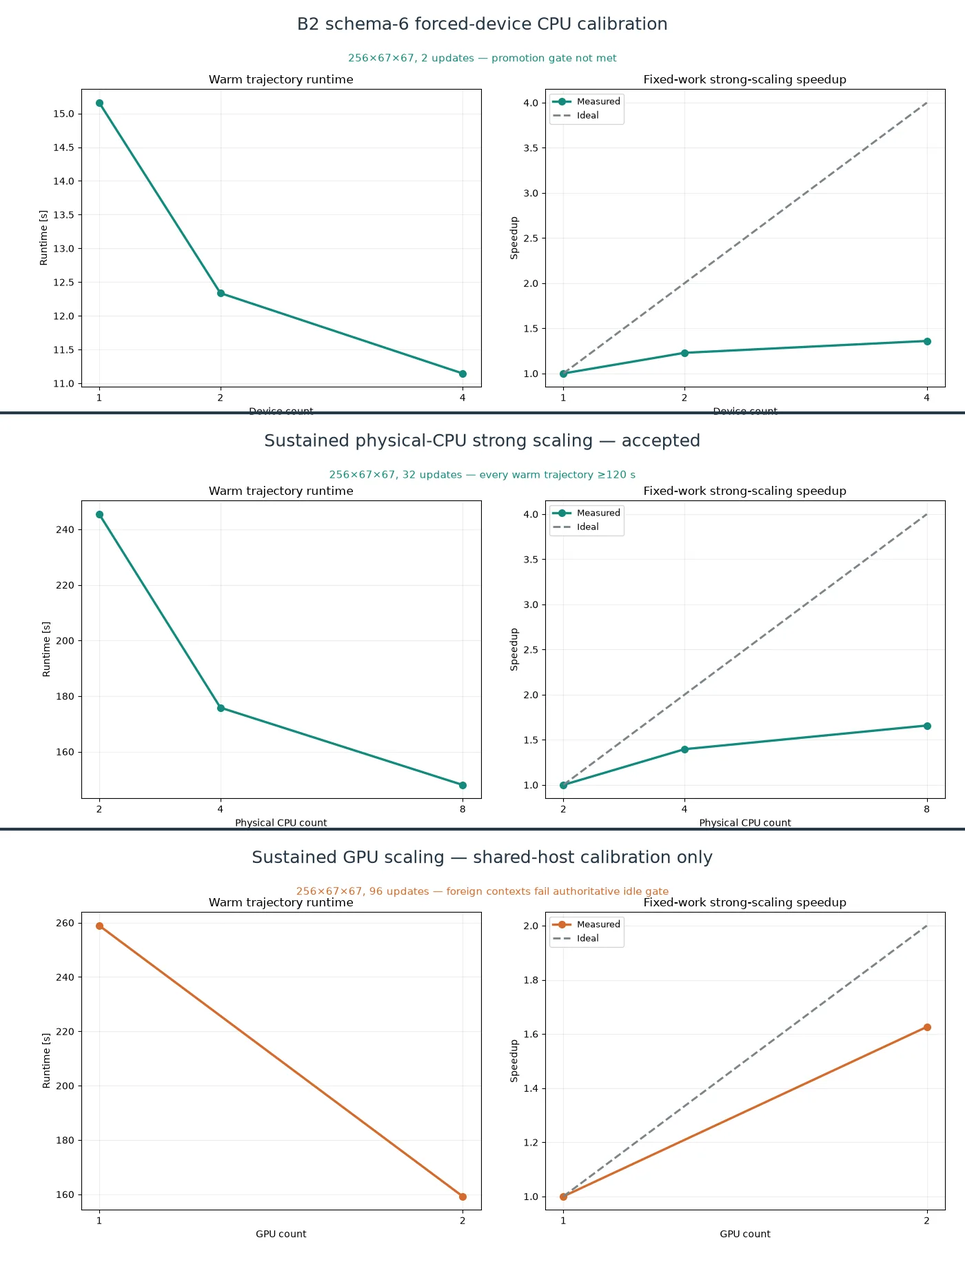
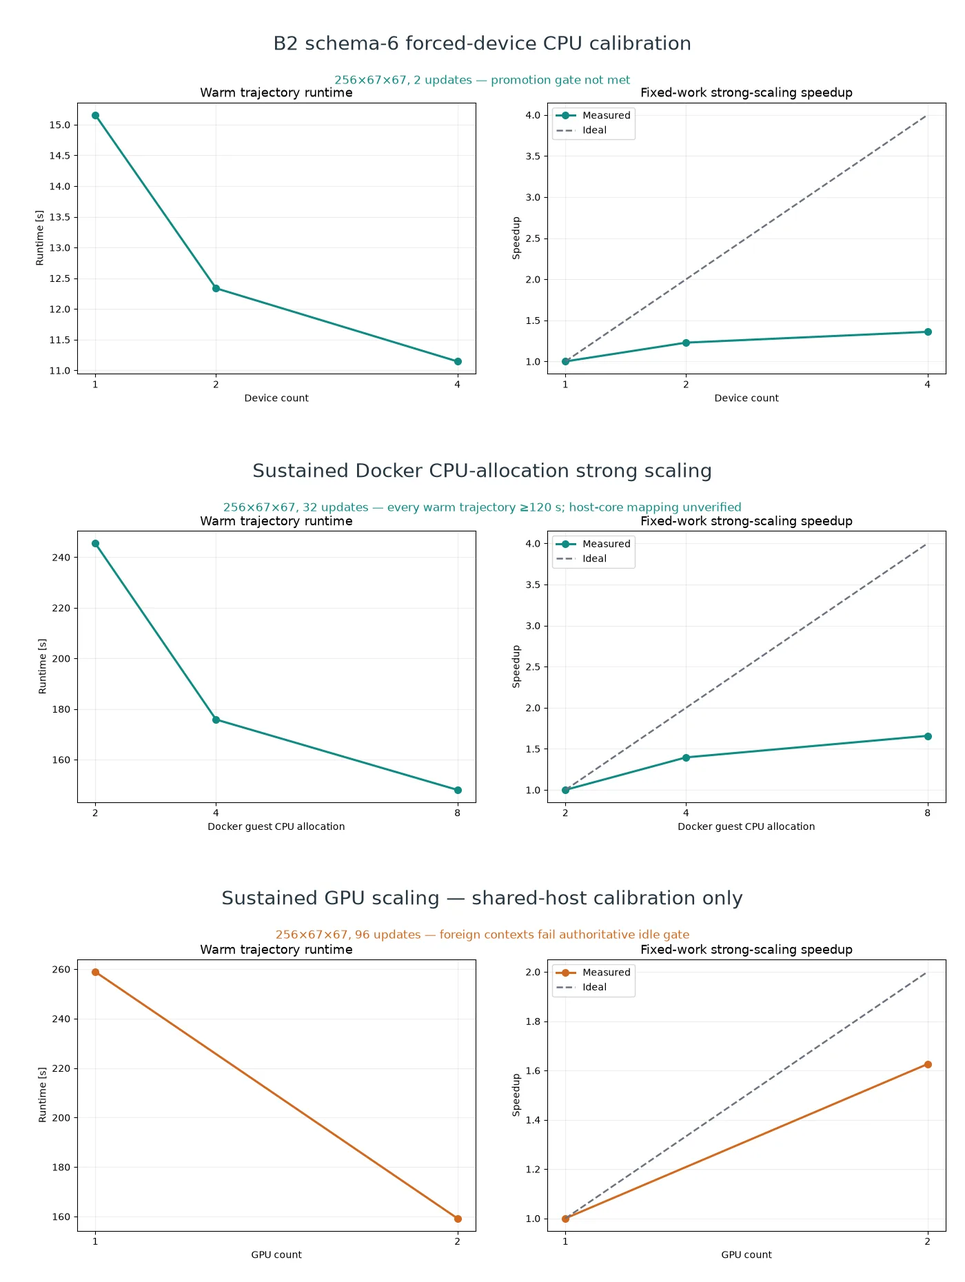
Require sustained scaling evidence

diff --git a/scripts/run_strong_scaling_worker.py b/scripts/run_strong_scaling_worker.py
@@ -44,6 +44,7 @@ _B2_RESTART_FLUX_RTOL = 1.0e-5
 _B2_REPEAT_ATOL = 2.0e-9
 _B2_REPEAT_RTOL = 2.0e-8
 _B2_PROFILE_ITERATION_ATOL = 3
+_B2_SUSTAINED_WARM_SECONDS = 120.0
 _B2_FIELD_NAMES = (
     "u", "v", "w", "p", "phi", "jx", "jy", "jz", "rho_phi_plus", "rho_phi_inlet"
 )
@@ -51,6 +52,19 @@ _B2_FIELD_NAMES = (
 if ROOT not in Path(lmx.__file__).resolve().parents:
     raise RuntimeError(
         f"Scaling worker imported LMX outside its source tree: {lmx.__file__}"
+    )
+
+
+def _sustained_timing_passed(
+    minimum_warm_seconds: float, warm_samples: object
+) -> bool:
+    """Require a predeclared multi-minute workload for scaling evidence."""
+
+    samples = np.asarray(warm_samples, dtype=float)
+    return bool(
+        samples.size
+        and minimum_warm_seconds >= _B2_SUSTAINED_WARM_SECONDS
+        and np.all(samples >= _B2_SUSTAINED_WARM_SECONDS)
     )
 
 
@@ -476,9 +490,12 @@ def _matched_b2_smoke_benchmark(
         and profile_linear_iteration_max_abs <= _B2_PROFILE_ITERATION_ATOL
         and all(np.array_equal(left[:, offset + 1:], right[:, offset + 1:])
             for left, right, offset in profile_histories)))
-    acceptance_role = ("harness-smoke"
-        if direct.u.shape == (8, 7, 7) and executed_steps == 2
-        else "scaling-calibration")
+    if direct.u.shape == (8, 7, 7) and executed_steps == 2:
+        acceptance_role = "harness-smoke"
+    elif minimum_warm_seconds >= _B2_SUSTAINED_WARM_SECONDS:
+        acceptance_role = "sustained-scaling-calibration"
+    else:
+        acceptance_role = "fixed-work-debug"
     try:
         with tempfile.TemporaryDirectory(prefix="lmx-b2-serialized-restart-") as temporary:
             restart_path = Path(temporary) / "checkpoint.npz"
@@ -494,6 +511,7 @@ def _matched_b2_smoke_benchmark(
             )
     except Exception as error:
         warm = np.asarray(timings[1:])
+        sustained = _sustained_timing_passed(minimum_warm_seconds, warm)
         return {
             "benchmark_kind": "matched_b2_smoke",
             "acceptance_role": acceptance_role,
@@ -505,6 +523,9 @@ def _matched_b2_smoke_benchmark(
             "repeats": repeats, "cold_seconds": timings[0],
             "warm_samples_seconds": warm.tolist(),
             "warm_seconds": float(np.median(warm)), "validation_passed": False,
+            "sustained_minimum_warm_seconds": _B2_SUSTAINED_WARM_SECONDS,
+            "sustained_duration_passed": sustained,
+            "sustained_timing_eligible": False,
             "failure": {"phase": "restart", "type": type(error).__name__,
                 "message": str(error)},
         }
@@ -553,6 +574,7 @@ def _matched_b2_smoke_benchmark(
         and all(sample >= minimum_warm_seconds for sample in timings[1:])
     )
     warm = np.asarray(timings[1:])
+    sustained = _sustained_timing_passed(minimum_warm_seconds, warm)
     velocity_l2 = float(np.sqrt(sum(np.linalg.norm(np.asarray(getattr(direct, name))) ** 2
         for name in ("u", "v", "w"))))
     current_l2 = float(np.sqrt(sum(np.linalg.norm(np.asarray(getattr(direct, name))) ** 2
@@ -582,9 +604,11 @@ def _matched_b2_smoke_benchmark(
             executed_steps * direct.u.size / np.median(warm)
         ),
         "minimum_warm_seconds": minimum_warm_seconds,
-        "sustained_duration_passed": bool(
-            all(sample >= minimum_warm_seconds for sample in warm)
-        ),
+        "requested_duration_passed": bool(
+            all(sample >= minimum_warm_seconds for sample in warm)),
+        "sustained_minimum_warm_seconds": _B2_SUSTAINED_WARM_SECONDS,
+        "sustained_duration_passed": sustained,
+        "sustained_timing_eligible": bool(validation_passed and sustained),
         "velocity_l2": velocity_l2, "potential_l2": float(np.linalg.norm(np.asarray(direct.phi))),
         "current_l2": current_l2,
         "memory_bytes_estimate": _bundle_memory_bytes(direct),

diff --git a/tests/test_scaling.py b/tests/test_scaling.py
@@ -337,6 +337,28 @@ def test_matched_scaling_worker_rejects_step_contract_mismatch(tmp_path: Path):
         )
 
 
+def test_sustained_scaling_requires_predeclared_multiminute_samples():
+    classify = run_strong_scaling_worker._sustained_timing_passed
+    assert not classify(0.0, [121.0, 122.0, 123.0])
+    assert not classify(120.0, [120.0, 119.999, 121.0])
+    assert classify(120.0, [120.0, 121.0, 122.0])
+
+    cpu = json.loads(Path(
+        "benchmarks/results/b2-schema6-cpu-scaling-20260716.json").read_text())
+    cpu_sustained = cpu["physical_core_sustained_confirmation"]
+    gpu = json.loads(Path(
+        "benchmarks/results/b2-gpu-scaling-calibration-20260715.json").read_text())
+    gpu_sustained = gpu["sustained_shared_host_calibration"]
+    for record in (cpu_sustained, gpu_sustained):
+        threshold = record.get("promotion_thresholds", record.get("problem"))
+        assert threshold["minimum_warm_seconds"] >= 120.0
+        assert all(
+            sample >= 120.0 for run in record["runs"].values()
+            for sample in run["warm_samples_seconds"])
+    assert not gpu_sustained["gates"]["authoritative_idle_host"]
+    assert not gpu_sustained["gates"]["timing_claim"]
+
+
 def test_write_scaling_report_writes_json(tmp_path: Path):
     record = benchmark_sharded_extruded_operator(
         nx=16, ny=8, nz=8, iterations=2, repeats=1, num_devices=1
@@ -382,16 +404,20 @@ def test_strong_scaling_summary_table_computes_solver_diagnostics(tmp_path: Path
         "profile_path": None,
     }
 
-    summary = summarize_strong_scaling_records([baseline, two_device])
+    baseline_record = {**baseline.__dict__, "sustained_timing_eligible": True}
+    two_device["sustained_timing_eligible"] = True
+    summary = summarize_strong_scaling_records([baseline_record, two_device])
     table = write_strong_scaling_summary_table(
-        [baseline, two_device], tmp_path / "strong_scaling_table.csv"
+        [baseline_record, two_device], tmp_path / "strong_scaling_table.csv"
     )
 
     assert summary["validation_status"] == "solver_faithful_records_present"
     assert summary["solver_faithful_record_count"] == 2
     assert summary["profiled_record_count"] == 1
     assert summary["physics_equivalent_record_count"] == 2
+    assert summary["sustained_timing_record_count"] == 2
     assert summary["best_speedup"] == pytest.approx(2.0)
+    assert summary["best_sustained_speedup"] == pytest.approx(2.0)
     rows = summary["rows"]
     assert rows[0]["speedup"] == pytest.approx(1.0)
     assert rows[1]["speedup"] == pytest.approx(2.0)

diff --git a/lmx/scaling.py b/lmx/scaling.py
@@ -98,6 +98,7 @@ _SCALING_TABLE_COLUMNS = (
     "signature_relative_tolerance",
     "physics_equivalent",
     "solver_faithful",
+    "sustained_timing_eligible",
 )
 
 _BUNDLE_FIELD_NAMES = (
@@ -291,13 +292,21 @@ def summarize_strong_scaling_records(
                     "signature_relative_tolerance": signature_rtol,
                     "physics_equivalent": physics_equivalent,
                     "solver_faithful": operator_path == "solve_extruded_inductionless",
+                    "sustained_timing_eligible": bool(
+                        record.get("sustained_timing_eligible", False)
+                    ),
                 }
             )
 
     solver_faithful_count = sum(1 for row in rows if row["solver_faithful"])
     profiled_count = sum(1 for row in rows if row["profile_path"])
     physics_equivalent_count = sum(1 for row in rows if row["physics_equivalent"])
+    sustained_count = sum(1 for row in rows if row["sustained_timing_eligible"])
     best_speedup = max((float(row["speedup"]) for row in rows), default=0.0)
+    best_sustained_speedup = max(
+        (float(row["speedup"]) for row in rows if row["sustained_timing_eligible"]),
+        default=0.0,
+    )
     best_parallel_efficiency = max(
         (float(row["parallel_efficiency"]) for row in rows), default=0.0
     )
@@ -306,7 +315,9 @@ def summarize_strong_scaling_records(
         "solver_faithful_record_count": solver_faithful_count,
         "profiled_record_count": profiled_count,
         "physics_equivalent_record_count": physics_equivalent_count,
+        "sustained_timing_record_count": sustained_count,
         "best_speedup": best_speedup,
+        "best_sustained_speedup": best_sustained_speedup,
         "best_parallel_efficiency": best_parallel_efficiency,
         "validation_status": "solver_faithful_records_present"
         if solver_faithful_count

diff --git a/examples/strong_scaling_demo.py b/examples/strong_scaling_demo.py
@@ -480,9 +480,12 @@ def run_strong_scaling_demo(
             )
         )
 
-    plots = write_strong_scaling_plots(
-        records, out_dir, case_title="LMX strong scaling"
+    sustained = bool(records) and all(
+        record.get("sustained_timing_eligible", False) for record in records
     )
+    plots = write_strong_scaling_plots(records, out_dir, case_title=(
+        "LMX sustained fixed-work scaling" if sustained
+        else "LMX scaling smoke / calibration"))
     table_path = write_strong_scaling_summary_table(
         records, out_dir / "strong_scaling_table.csv"
     )

diff --git a/docs/performance.md b/docs/performance.md
@@ -4,9 +4,9 @@ LMX runs through JAX on CPUs and GPUs. Performance claims are accepted only for
 the real solver path with identical numerical results; visibility of multiple
 devices alone is not evidence of parallel execution.
 
-![Current B2 schema-6 calibration and sustained physical-CPU scaling](_static/strong_scaling.webp)
+![Current B2 schema-6 calibration and sustained CPU/GPU scaling](_static/strong_scaling.webp)
 
-This composite is generated from the accepted schema-6 CPU record. The upper
+This composite is generated from the compact schema-6 CPU and GPU records. The upper
 panel is forced-device calibration; the middle panel is accepted sustained
 fixed-work scaling on affinity-controlled 2/4/8 CPUs; the lower panel is a
 multi-minute one/two-GPU shared-host calibration. GPU correctness is green, but
@@ -19,12 +19,12 @@ the timing claim remains open because foreign contexts fail the idle gate.
 | portable test gate | Apple M4, six workers | 856 pass, 8 skip, 95.33% combined line/branch coverage, 181.0 s | below five-minute target and one third of the ten-minute budget |
 | B2 CPU smoke | Apple M4, `8 x 7 x 7`, 1/2/4 forced CPU devices | current-source pressure observable agrees within `5.93e-15`; closure and exact restart pass | production sharding correctness; too small for scaling claims |
 | B2 schema-6 CPU calibration | Apple M4, `256 x 67 x 67`, 1/2/4 forced CPU devices | 15.159/12.337/11.146 s; 1.229x/1.360x speedup; exact restart and device equivalence pass | accepted correctness/calibration; four-device promotion gate not met |
-| B2 physical-core confirmation | ARM64 Docker on Apple M4, `256 x 67 x 67`, 2/4/8 affinity-controlled CPUs for 1/2/4 devices | 22.894/15.953/14.252 s; 1.435x/1.606x; 95% lower bounds 1.364x/1.548x; efficiency 71.8%/40.2% | repeated two-update calibration; not sustained or steady-production scaling |
-| B2 sustained CPU scaling | same grid/masks, 32 updates, three warm trajectories per topology | 245.465/175.837/148.026 s; 1.396x/1.658x; 95% lower bounds 1.378x/1.655x; efficiency 69.8%/41.5%; CV below 0.71% | accepted fixed-work physical-CPU strong scaling; not steady-state evidence |
+| B2 CPU-allocation confirmation | ARM64 Docker on Apple M4, `256 x 67 x 67`, 2/4/8 affinity-controlled guest CPUs for 1/2/4 devices | 22.894/15.953/14.252 s; 1.435x/1.606x; 95% lower bounds 1.364x/1.548x; efficiency 71.8%/40.2% | repeated two-update calibration; host P/E-core mapping unverified |
+| B2 sustained CPU scaling | same grid/masks, 32 updates, three warm trajectories per topology | 245.465/175.837/148.026 s; 1.396x/1.658x; 95% lower bounds 1.378x/1.655x; efficiency 69.8%/41.5%; CV below 0.71% | fixed-work Docker CPU-allocation strong scaling; not host-core or steady-state evidence |
 | B2 sustained GPU calibration | 1/2 RTX A4000, same grid, 96 updates, three warm trajectories per topology | 258.913/159.234 s; 1.626x; 95% interval 1.626x–1.636x; efficiency 81.3%; CV below 0.29% | numerical/duration gates pass; persistent foreign contexts block an authoritative timing claim |
 | B2 pseudo-time gate | Apple M4, corrected warm `7 x 7 x 7`, canonical `Ha=2900`, `N=540` equations | 64x/32x/16x map-rate spread 0.0768%; raw updates halve; exact restart | 64x refrozen; versioned stopping threshold open |
 | B2 physical-residual probe | Apple M4, `7 x 7 x 7` | residual 0.03870 at step 90; omitted reconstruction force is 0.0880 at step 4 | diagnostic has a plausible coarse split floor; never a stopping gate |
-| physical-core restart audit | existing `101 x 77 x 77` coarse checkpoints | geometry/shape load, but sampled files normalize to `legacy_nonexact` with no source fingerprint or schema-6 Anderson/compact-flux state | unsuitable for exact or promoted current-source scaling evidence |
+| CPU-allocation restart audit | existing `101 x 77 x 77` coarse checkpoints | geometry/shape load, but sampled files normalize to `legacy_nonexact` with no source fingerprint or schema-6 Anderson/compact-flux state | unsuitable for exact or promoted current-source scaling evidence |
 | B2 projection audit/fix | Apple M4, warm same-state `7 x 7 x 7` | pre-fix raw cell-update floor `3.69e-3`; corrected predictor-preserving projection removes axial floor | pre-fix trajectories invalid; focused physics/autodiff/restart gates pass |
 | B2 stopping study | Apple M4, schema 5, restart segments to step 96 | `0.05` converges at 30 but fails all QoI limits; `0.005` reaches only `0.01502` | fail closed; accelerate before tighter-reference calibration |
 | B2 relaxation probe | Apple M4, shared step-29 checkpoint, six updates | factors 5/6/8 gain at most 9.33% over factor 4 | below 15% gate; retain factor 2 |
@@ -175,7 +175,7 @@ shards agree within `5.2e-14`, while warm time regresses from 0.530 s to
 timings remain rejected. A subsequent current-source `128 x 67 x 67` matched
 schema-6 pilot found that one CPU per JAX device starves the CPU collective
 runtime: two devices on two CPUs hit the 40-second all-reduce rendezvous abort.
-The preflight therefore fixed two physical CPUs per device and reran nested
+The preflight therefore fixed two guest CPUs per device and reran nested
 2/4/8-CPU masks. Warm medians fall from 7.351 to 5.546/4.574 seconds, giving
 1.325x/1.607x speedups and 66.3%/40.2% efficiency. All affinity, placement,
 restart, repeat, conservation, linear, Anderson, and cross-topology gates pass.
@@ -188,7 +188,9 @@ The promoted 32-update workload measures 245.465, 175.837, and 148.026 s on
 their 95% lower bounds are 1.378x/1.655x, and efficiencies are 69.8%/41.5%.
 CVs remain below 0.71%; midpoint restart is exact and all schema-6, physics,
 placement, and cross-topology gates pass. This accepts sustained fixed-work CPU
-strong scaling, not steady convergence or B2 solution acceptance.
+allocation scaling, not exact M4 host-core scaling, steady convergence, or B2
+solution acceptance. Linux affinity is verified inside the Docker VM; Docker
+Desktop does not expose how those vCPUs map onto the heterogeneous host cores.
 
 The medium B2 tight solve converged across two restart-safe segments and ended
 at residual `2.500e-5`, divergence `1.829e-6`, and charge residual `1.149e-4`.
@@ -321,18 +323,23 @@ For controlled workers and machine-readable records:
 python scripts/run_strong_scaling_worker.py --help
 ```
 
-The matched-B2 worker keeps two updates as its fast debug/CI default. Sustained
-scaling inputs use an explicit fixed workload and fail if any warm trajectory is
-too short; direct and midpoint-restart paths must still finish identically:
+The matched-B2 worker keeps two updates as its fast debug/CI default. Such runs
+can verify numerics but are never scaling evidence. A sustained record must
+predeclare a 120-second minimum and every warm trajectory must meet it; direct
+and midpoint-restart paths must still finish identically. The accepted workload
+uses 32 CPU updates and 96 GPU updates:
 
 ```bash
 python examples/strong_scaling_demo.py --benchmark-kind matched_b2_smoke \
-  --iterations 20 --repeats 4 --minimum-warm-seconds 120
+  --cpu-nx 256 --cpu-ny 67 --cpu-nz 67 --cpu-iterations 32 \
+  --gpu-nx 256 --gpu-ny 67 --gpu-nz 67 --gpu-iterations 96 \
+  --repeats 4 --minimum-warm-seconds 120 --worker-timeout 1800
 ```
 
-Run the CPU topologies with controlled physical-core affinity and the GPU
-topologies only on an idle host. This manual performance lane is intentionally
-outside the portable test battery.
+Run CPU topologies with controlled affinity and GPU topologies only on an idle
+host. The command above is a sustained-workload example; the accepted CPU
+record additionally used Docker `cpuset` masks, which verify guest allocations
+but not M4 P/E-core placement. This manual lane stays outside portable tests.
 
 The solver-faithful example requires a validated restart matching each timed
 grid; it fails before launching workers when one is missing:
@@ -363,6 +370,7 @@ pass the same gates.
 A publishable strong-scaling record contains:
 
 - fixed global grid, physics, tolerance, precision, and update count;
+- a predeclared 120-second minimum met by every warm trajectory;
 - backend, device model, device count, JAX version, and source fingerprint;
 - cold time, warm time, throughput, speedup, and parallel efficiency;
 - compilation separated from repeated execution;

diff --git a/plan.md b/plan.md
@@ -34,15 +34,15 @@ optimization but miss the four-device bound. It is a two-update forced-device
 calibration, not a physical-core or production strong-scaling claim. Schema-6
 topology, explicit component placement, and exact serialized replay pass on
 one and two GPUs; shared-host timing is excluded. The affinity-controlled
-physical-CPU path now passes accepted 32-update sustained scaling: every warm
+Docker CPU-allocation path now passes 32-update sustained scaling: every warm
 trajectory lasts 147--246 s, speedup is 1.396x/1.658x on 4/8 versus 2 CPUs,
 and all confidence, efficiency, restart, and physics gates pass. A 96-update
 one/two-A4000 lane also passes 158--259 s duration, numerical, restart, and
 topology gates with 1.626x shared-host speedup, but persistent foreign contexts
 keep authoritative GPU scaling open. The fixed-work harness accepts
 an explicit update count, checkpoints at the deterministic midpoint, replays
-the remaining trajectory, and can require every warm sample to exceed 120 s;
-the two-update default remains the bounded CI/debug gate. This
+the remaining trajectory, and requires every warm sample to exceed 120 s for a
+sustained claim; the two-update default remains the bounded CI/debug gate. This
 single active plan records accepted baselines, active gates, and
 stop/go criteria—not campaign history. Completed campaign details belong in
 checksummed result records and the validation or performance documentation.
@@ -82,6 +82,9 @@ a stop rule, and a go/no-go threshold before launch. Escalate in this order:
 
 A failed bounded probe stops. It does not trigger an open-ended parameter
 search. Reuse a checksummed accepted record whenever it answers the question.
+Short scaling runs are smoke or calibration only. A CPU or GPU strong-scaling
+claim must predeclare a fixed workload for which every warm sample lasts at
+least 120 seconds; compilation, restart I/O, and observers remain untimed.
 
 ### Test only what changed
 
@@ -361,14 +364,14 @@ updates before rising to `1.72e-4` at 384, above the `5e-5` gate. Reject those
 timings and do not plot them as scaling evidence.
 
 A current-source `128 x 67 x 67` matched schema-6 pilot then establishes the
-bounded physical-core path without a blind steady solve. One CPU per JAX device
-is invalid: two devices on two CPUs hit the 40-second all-reduce rendezvous
-abort. The tiny preflight passes with two physical CPUs per device, so the
+bounded CPU-allocation path without a blind steady solve. One guest CPU per JAX
+device is invalid: two devices on two CPUs hit the 40-second all-reduce rendezvous
+abort. The tiny preflight passes with two guest CPUs per device, so the
 measured ladder uses nested 2/4/8-CPU masks for 1/2/4 devices. Warm medians are
 7.351, 5.546, and 4.574 seconds, giving 1.325x/1.607x speedups and
 66.3%/40.2% efficiency; CVs are below 2.2%. Schema-6, affinity, placement,
 restart, repeat, conservation, linear, Anderson, and cross-topology gates all
-pass. Accept this as a two-update physical-core pilot only. It authorizes one
+pass. Accept this as a two-update affinity-controlled pilot only. It authorizes one
 six-repeat `256 x 67 x 67` confirmation with the frozen 1.20x/1.40x
 confidence-bound and 60%/35% efficiency gates, not a steady-production claim.
 
@@ -382,16 +385,16 @@ The generalized fixed-work worker then rejected a 20-update duration pilot at
 1.396x/1.658x speedups, 1.378x/1.655x 95% lower bounds, and 69.8%/41.5%
 efficiency. CVs are below 0.71%; midpoint replay is exact and every placement,
 linear, conservation, Anderson, and cross-topology gate passes. Accept this as
-sustained fixed-work physical-CPU strong scaling, not steady-state or B2
-solution acceptance. Apply the same protocol to GPUs only after the shared
-host passes the 60-second idle/no-foreign-work gate.
+sustained fixed-work Docker CPU-allocation strong scaling, not exact M4
+host-core, steady-state, or B2 solution evidence. Apply the same protocol to
+GPUs only after the shared host passes the 60-second idle/no-foreign-work gate.
 
 The existing `101 x 77 x 77` coarse checkpoints were screened before launching
 that ladder. Three representative files match the current geometry and solver
 shape, but all normalize to `legacy_nonexact`, omit compact flux and schema-6
 Anderson state, and carry no source fingerprint. They may support a separately
 labelled warm-start diagnostic, but they cannot seed exact-restart, current-
-source, or steady-production physical-core evidence. That restart gate remains
+source, or steady-production exact-host-core evidence. That restart gate remains
 open independently of the matched two-update pilot.
 
 Compact CPU evidence is

diff --git a/docs/media.md b/docs/media.md
@@ -27,7 +27,7 @@ or command, observable, and acceptance limit or uncertainty.
 | exact restart/replay | direct-versus-resumed state comparison | complete |
 | custom fields and mapped geometry | field response and geometry panels | complete |
 | differentiable design | checked sensitivity and bounded design trace | complete |
-| CPU/GPU parallelism | forced-device calibration plus physical-core pilot | CPU pilot and 1/2-GPU topology current; steady scaling promotion open |
+| CPU/GPU parallelism | forced-device calibration plus sustained CPU/GPU timing | CPU allocation scaling accepted; exact host-core and idle-host GPU claims open |
 | mapped-pipe external profiles | visible FreeMHD-profile mismatch | complete; not ALEX-B1 acceptance |
 | Samper high-Ha literature ladder | frozen eight-row acceptance composite | complete |
 | Q2D, obstacle, and blanket studies | loops, detailed diagnostic composites, and strict Votyakov mismatch | complete; quantitative parity remains open |
@@ -39,7 +39,7 @@ serve one claim family.
 
 ## Tracked web set
 
-Twenty files in `docs/_static/` total 1,207,298 bytes. The `showcase` section of
+Twenty files in `docs/_static/` total 1,243,292 bytes. The `showcase` section of
 [`release-assets.json`](release-assets.json) records every byte count and
 SHA-256; `python scripts/manage_release_assets.py --check` verifies it locally.
 
@@ -54,7 +54,7 @@ SHA-256; `python scripts/manage_release_assets.py --check` verifies it locally.
 | Q2D external diagnostics | 87,350 | 1,000 × 1,509 WebP | released sources `5bc14089...` and `11f452c1...`; external parity explicitly open |
 | manufactured operators | 41,120 | 1,600 × 624 WebP | bounded example; orders 2.00/1.94/1.91; `test_example_runner.py` / `test_plotting.py` |
 | Samper Benchmark A | 74,438 | 1,405 × 913 WebP | accepted aggregate `9f94ea15...`; eight rows; JSON-only writer/test |
-| B2 schema-6 scaling evidence | 80,362 | 1,400 × 1,860 WebP | forced-device CPU calibration, accepted sustained physical-CPU scaling, and sustained shared-host GPU calibration; GPU idle-host claim remains open |
+| B2 schema-6 scaling evidence | 85,752 | 1,400 × 1,860 WebP | forced-device CPU calibration, sustained Docker CPU-allocation scaling, and sustained shared-host GPU calibration; exact host-core and GPU idle-host claims remain open |
 | Hunt startup | 114,866 | 440 × 287 animated WebP, 7 s | Python/Pillow derivative of source GIF `12f30a38...`; 42 frames |
 | checked sensitivities | 32,612 | compressed WebP | released derivative `f2add9fe...` |
 | geometry gallery | 61,600 | compressed WebP | released derivative `e844f069...` |

diff --git a/README.md b/README.md
@@ -135,14 +135,15 @@ Q2D-MHDfoam parity and blanket validation remain open.
 
 ## Scale on CPUs and GPUs
 
-![Current B2 schema-6 calibration and sustained physical-CPU scaling](https://raw.githubusercontent.com/uwplasma/LMX/main/docs/_static/strong_scaling.webp)
+![Current B2 schema-6 calibration and sustained CPU/GPU scaling](https://raw.githubusercontent.com/uwplasma/LMX/main/docs/_static/strong_scaling.webp)
 
 Schema-6 B2 agrees on 1/2/4 forced CPU devices with exact restart replay. At
 `256 × 67 × 67`, two/four devices reach 1.229×/1.360×; four devices still miss
-the promotion gate. On affinity-controlled physical CPUs, 32-update warm
-trajectories last 148–246 s and reach 1.396×/1.658× on four/eight versus two
-CPUs; confidence, efficiency, restart, and physics gates pass. This is accepted
-fixed-work CPU strong scaling, not steady-state evidence. A 96-update shared-host
+the promotion gate. With affinity-controlled Docker CPU allocations, 32-update
+warm trajectories last 147–246 s and reach 1.396×/1.658× on four/eight versus
+two CPUs; confidence, efficiency, restart, and physics gates pass. This is
+fixed-work CPU-allocation strong scaling; Docker does not expose the M4 host's
+exact P/E-core mapping. A 96-update shared-host
 GPU calibration reaches 1.626× on two A4000s with 159–259 s warm trajectories;
 foreign GPU contexts keep the authoritative timing claim open.
 [Protocol and results →](https://lmx.readthedocs.io/en/latest/performance.html)
